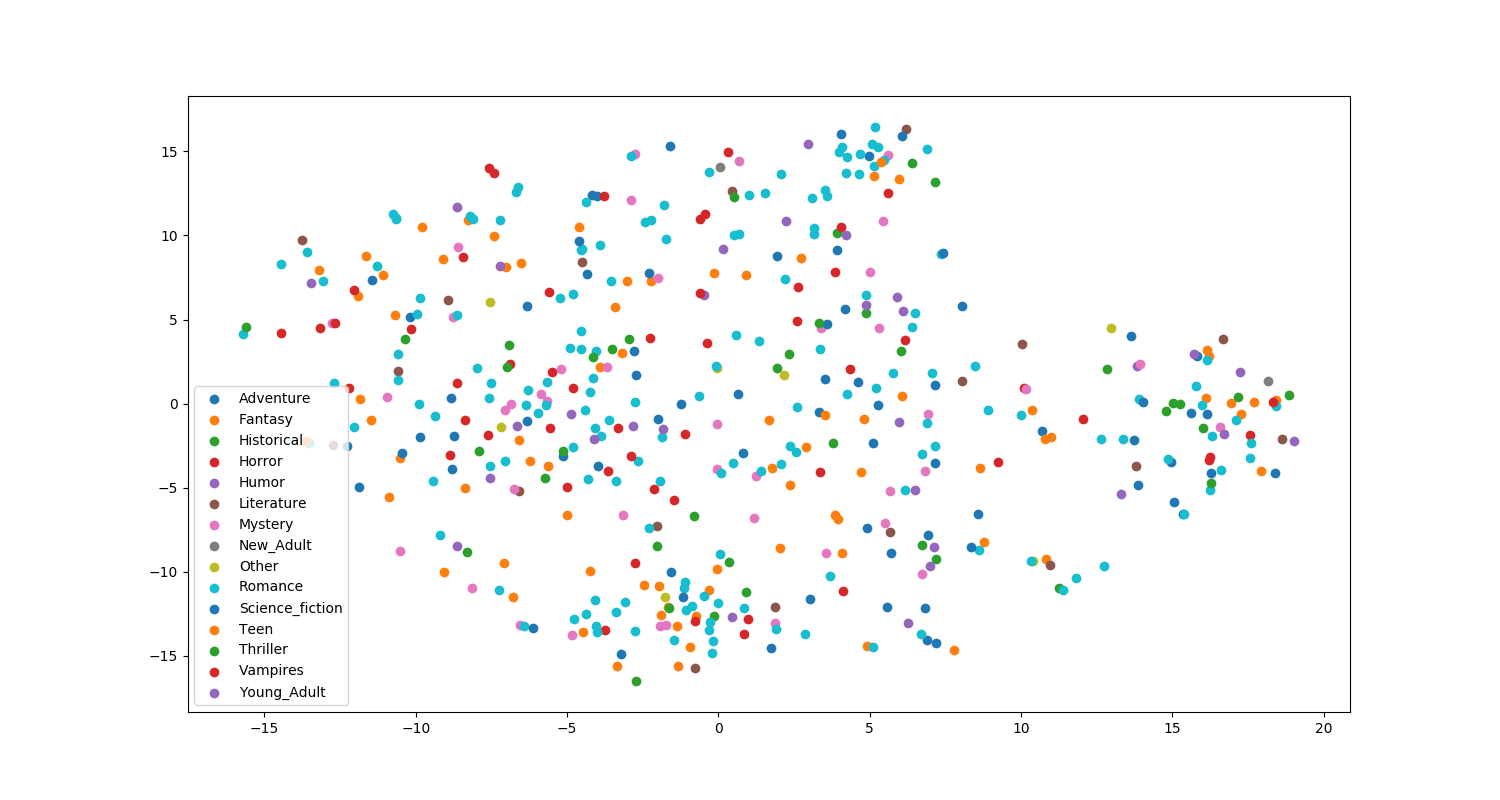
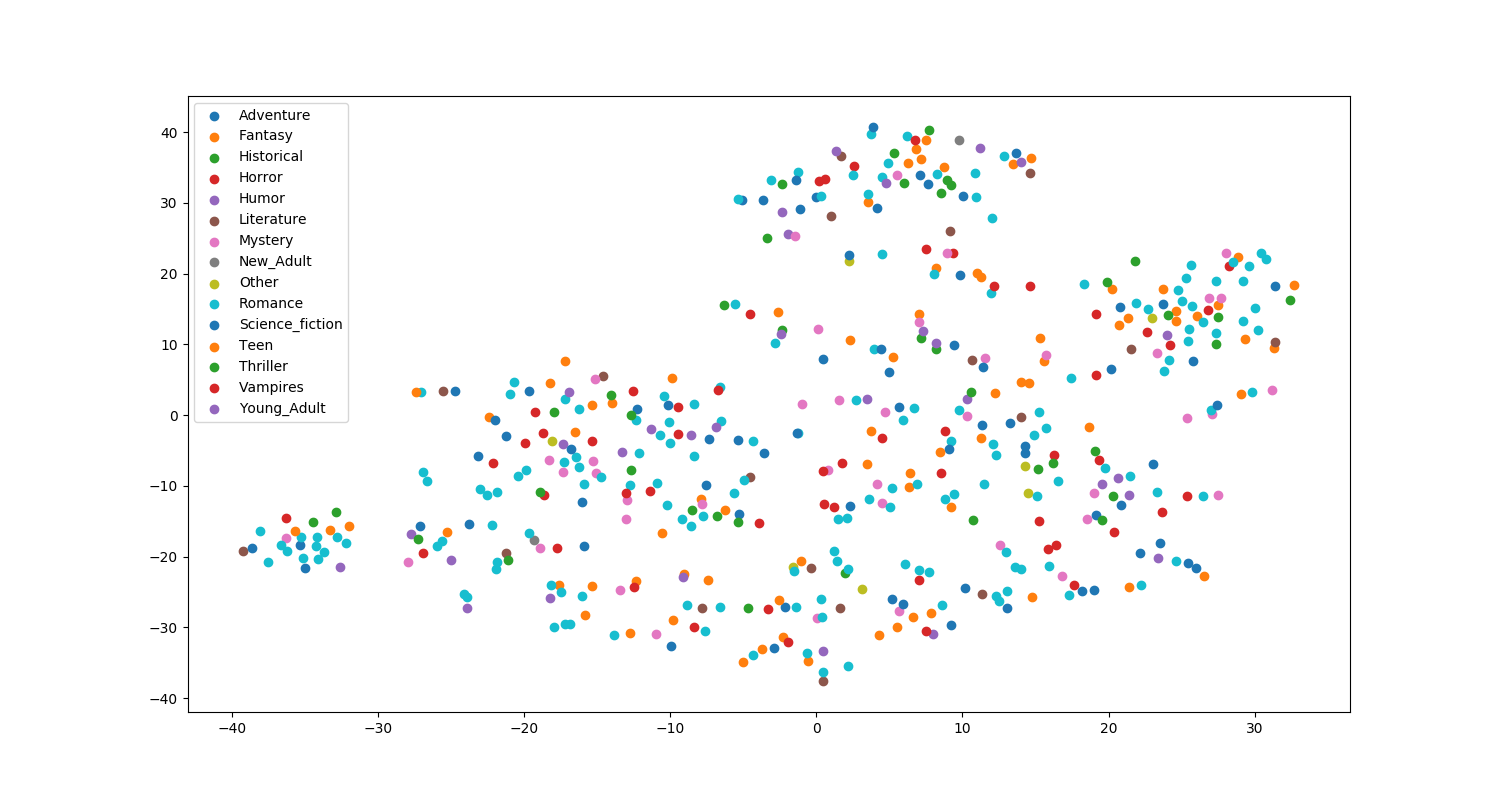
sotry2vec

diff --git a/scripts/bpc_scatter.py b/scripts/bpc_scatter.py
@@ -19,7 +19,7 @@ for book_filename in book_filenames:
 
 vec_size = 100
 
-tsne_model_2D = TSNE(n_components=2, n_iter=10000, perplexity=50, init='pca')
+tsne_model_2D = TSNE(n_components=2, n_iter=10000, perplexity=22, init='pca')
 tsne_articles_2D = tsne_model_2D.fit_transform(book_vecs)
 
 # 2D
